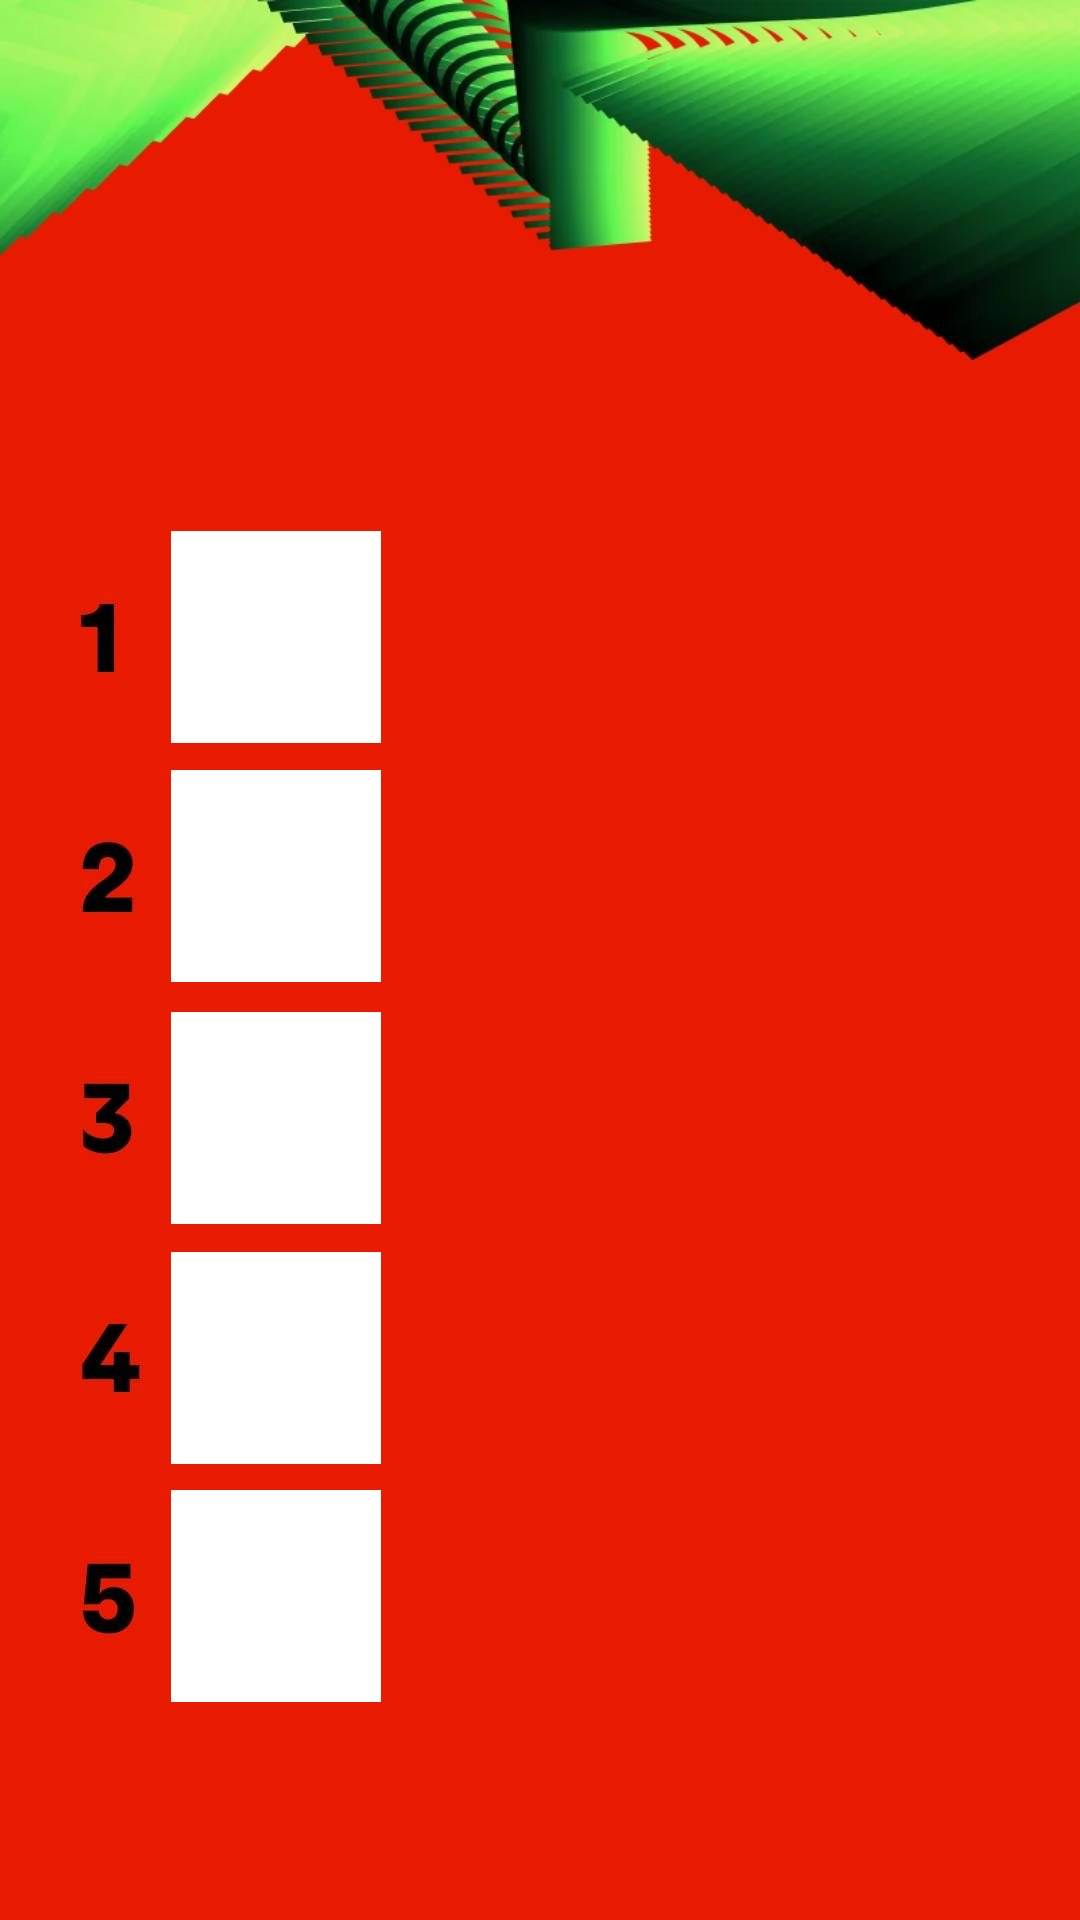
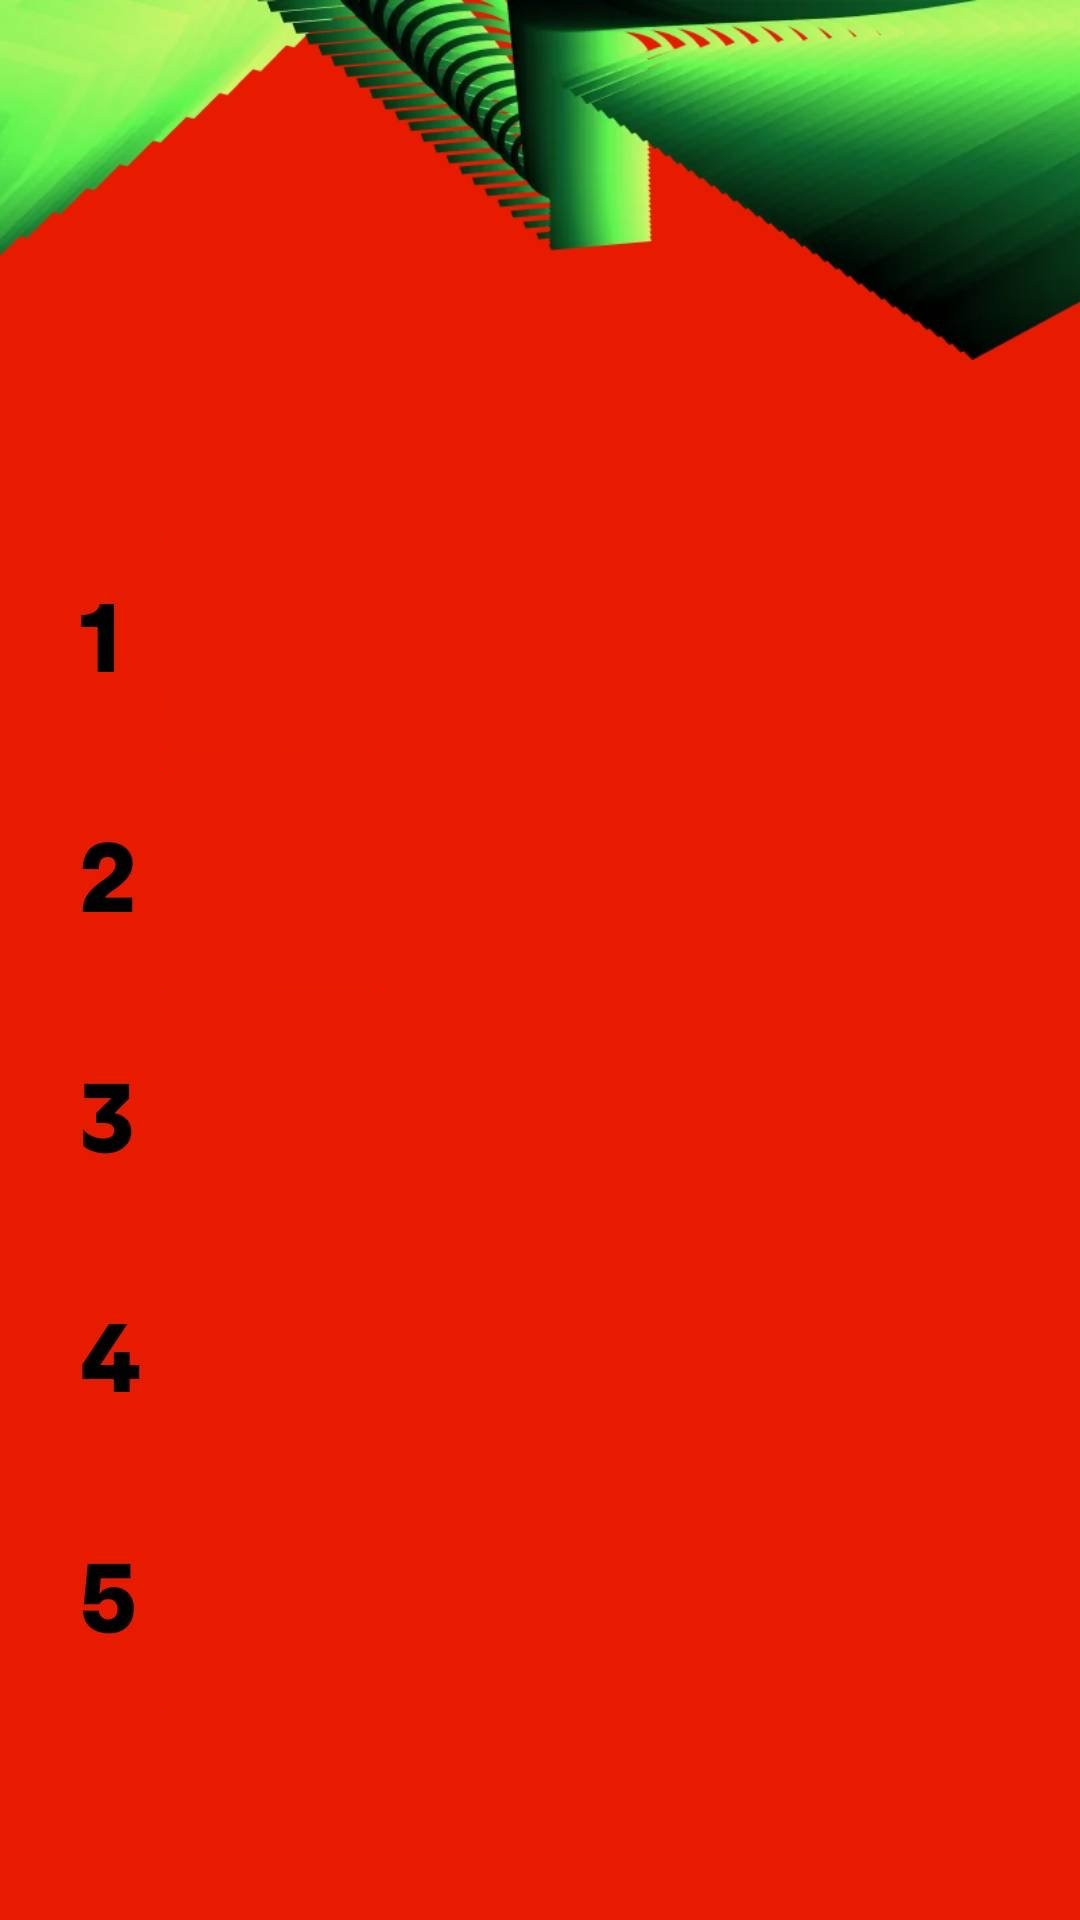
Add rewind page 6

Changed region(s): [[0.1528, 0.25, 0.3667, 0.9062]]

diff --git a/src/components/Rewind/RewindPage6.tsx b/src/components/Rewind/RewindPage6.tsx
@@ -1,7 +1,10 @@
 import "@assets/styles/Rewind.scss";
+import { Heading } from "@radix-ui/themes";
 import { DbDeck } from "../../state/Deck";
 import { DbGame } from "../../state/Game";
 import { DbPlayer } from "../../state/Player";
+import { getAllGamesForPlayerAndDeck } from "../../utils/Game";
+import { getPlayerDecksPlayedMap } from "../../utils/Player";
 
 type OwnProps = {
   viewer: DbPlayer;
@@ -10,7 +13,122 @@ type OwnProps = {
   decks: DbDeck[];
 };
 
-// deck played ranking
-export function RewindPage6({ viewer, players, games, decks }: OwnProps) {
-  return <div className="Page6 w-full h-full"></div>;
+export function RewindPage6({ viewer, games, decks }: OwnProps) {
+  const deckMap = getPlayerDecksPlayedMap(viewer, games);
+  const deck1 = getXMostPlayedDeck(0);
+  const gamesPlayedWithDeck1 = getAllGamesForPlayerAndDeck(
+    viewer,
+    deck1,
+    games
+  );
+  const winsWithDeck1 = gamesPlayedWithDeck1.filter(
+    (games) => games.won
+  ).length;
+
+  const deck2 = getXMostPlayedDeck(1);
+  const gamesPlayedWithDeck2 = getAllGamesForPlayerAndDeck(
+    viewer,
+    deck2,
+    games
+  );
+  const winsWithDeck2 = gamesPlayedWithDeck2.filter(
+    (games) => games.won
+  ).length;
+
+  const deck3 = getXMostPlayedDeck(2);
+  const gamesPlayedWithDeck3 = getAllGamesForPlayerAndDeck(
+    viewer,
+    deck3,
+    games
+  );
+  const winsWithDeck3 = gamesPlayedWithDeck3.filter(
+    (games) => games.won
+  ).length;
+
+  const deck4 = getXMostPlayedDeck(3);
+  const gamesPlayedWithDeck4 = getAllGamesForPlayerAndDeck(
+    viewer,
+    deck4,
+    games
+  );
+  const winsWithDeck4 = gamesPlayedWithDeck4.filter(
+    (games) => games.won
+  ).length;
+
+  const deck5 = getXMostPlayedDeck(4);
+  const gamesPlayedWithDeck5 = getAllGamesForPlayerAndDeck(
+    viewer,
+    deck5,
+    games
+  );
+  const winsWithDeck5 = gamesPlayedWithDeck5.filter(
+    (games) => games.won
+  ).length;
+
+  function getXMostPlayedDeckId(x: number): string {
+    const entry = [...deckMap.entries()].sort((a, b) => b[1] - a[1])[x];
+    return entry ? entry[0] : "";
+  }
+
+  function getXMostPlayedDeck(x: number): DbDeck {
+    const id = getXMostPlayedDeckId(x);
+    const deck = decks.find((deck) => deck.id === id);
+
+    if (deck) {
+      return deck;
+    }
+
+    return {} as DbDeck;
+  }
+
+  return (
+    <div className="Page6 w-full h-full">
+      <Heading
+        className="RewindHeading Heading1 w-full"
+        align="center"
+        size="7"
+      >
+        What other decks have you loved this year?
+      </Heading>
+      <div className="RewindHeading Heading2 w-full">
+        <Heading size="6">{deck1.name}</Heading>
+        <Heading size="4">{deck1.commander}</Heading>
+        <Heading size="3">
+          {gamesPlayedWithDeck1.length} games played, {winsWithDeck1} wins
+        </Heading>
+      </div>
+      <div className="RewindHeading Heading3 w-full">
+        <Heading size="6">{deck2.name}</Heading>
+        <Heading size="4">{deck2.commander}</Heading>
+        <Heading size="3">
+          {gamesPlayedWithDeck2.length} games played, {winsWithDeck2} wins
+        </Heading>
+      </div>
+      <div className="RewindHeading Heading4 w-full">
+        <Heading size="6">{deck3.name}</Heading>
+        <Heading size="4">{deck3.commander}</Heading>
+        <Heading size="3">
+          {gamesPlayedWithDeck3.length} games played, {winsWithDeck3} wins
+        </Heading>
+      </div>
+      <div className="RewindHeading Heading5 w-full">
+        <Heading size="6">{deck4.name}</Heading>
+        <Heading size="4">{deck4.commander}</Heading>
+        <Heading size="3">
+          {gamesPlayedWithDeck4.length} games played, {winsWithDeck4} wins
+        </Heading>
+      </div>
+      <div id="AnimationEndTrigger" className="RewindHeading Heading6 w-full">
+        {deck5.name && (
+          <>
+            <Heading size="6">{deck5.name}</Heading>
+            <Heading size="4">{deck5.commander}</Heading>
+            <Heading size="3">
+              {gamesPlayedWithDeck5.length} games played, {winsWithDeck5} wins
+            </Heading>
+          </>
+        )}
+      </div>
+    </div>
+  );
 }

diff --git a/src/assets/styles/Rewind.scss b/src/assets/styles/Rewind.scss
@@ -259,14 +259,64 @@
 }
 
 .Page6 {
+  animation: fadeIn 3s ease-in-out 0s 1 normal forwards,
+    fadeOut 3s ease-in-out 18s 1 normal forwards;
   background-image: url("/img/rewind-backgrounds/background-numbered-2.jpeg");
   background-size: cover;
+
+  .Heading1 {
+    visibility: hidden;
+    top: 200px;
+    animation: comeInFromRight 2s ease-out 2s 1 normal forwards;
+  }
+
+  .Heading2 {
+    visibility: hidden;
+    top: 295px;
+    left: 80px;
+    animation: fadeIn 2s ease-out 5s 1 normal forwards;
+  }
+
+  .Heading3 {
+    visibility: hidden;
+    top: 415px;
+    left: 80px;
+    animation: fadeIn 2s ease-out 6s 1 normal forwards;
+  }
+
+  .Heading4 {
+    visibility: hidden;
+    top: 535px;
+    left: 80px;
+    animation: fadeIn 2s ease-out 7s 1 normal forwards;
+  }
+
+  .Heading5 {
+    visibility: hidden;
+    top: 660px;
+    left: 80px;
+    animation: fadeIn 2s ease-out 8s 1 normal forwards;
+  }
+
+  .Heading6 {
+    visibility: hidden;
+    top: 780px;
+    left: 80px;
+    animation: fadeIn 2s ease-out 9s 1 normal forwards;
+  }
 }
 
 .Page7 {
-  // TODO
+  animation: fadeIn 3s ease-in-out 0s 1 normal forwards;
+  // fadeOut 3s ease-in-out 20s 1 normal forwards;
   background-image: url("/img/rewind-backgrounds/background-numbered-2.jpeg");
   background-size: cover;
+
+  .Heading1 {
+    // visibility: hidden;
+    top: 200px;
+    // animation: comeInFromRight 2s ease-out 2s 1 normal forwards;
+  }
 }
 
 @keyframes fadeIn {

diff --git a/src/components/Rewind/RewindPage5.tsx b/src/components/Rewind/RewindPage5.tsx
@@ -13,7 +13,6 @@ type OwnProps = {
   decks: DbDeck[];
 };
 
-// most played deck
 export function RewindPage5({ viewer, games, decks }: OwnProps) {
   const deckMap = getPlayerDecksPlayedMap(viewer, games);
   const mostPlayedDeck = getMostPlayedDeck();
@@ -75,7 +74,7 @@ export function RewindPage5({ viewer, games, decks }: OwnProps) {
         One deck that you loved just a bit more than all the others...
       </Heading>
       <div className="RewindHeading Heading5 w-full">
-        <Heading align="center" size="9">
+        <Heading align="center" size="8">
           {mostPlayedDeck.name}
         </Heading>
         <Heading align="center" size="7">

diff --git a/src/components/Rewind/RewindPageWrapper.tsx b/src/components/Rewind/RewindPageWrapper.tsx
@@ -23,6 +23,7 @@ const TIMINGS: { [key: number]: number } = {
   2: 8000,
   3: 10000,
   4: 5000,
+  5: 10000,
 };
 
 export function RewindPageWrapper({
